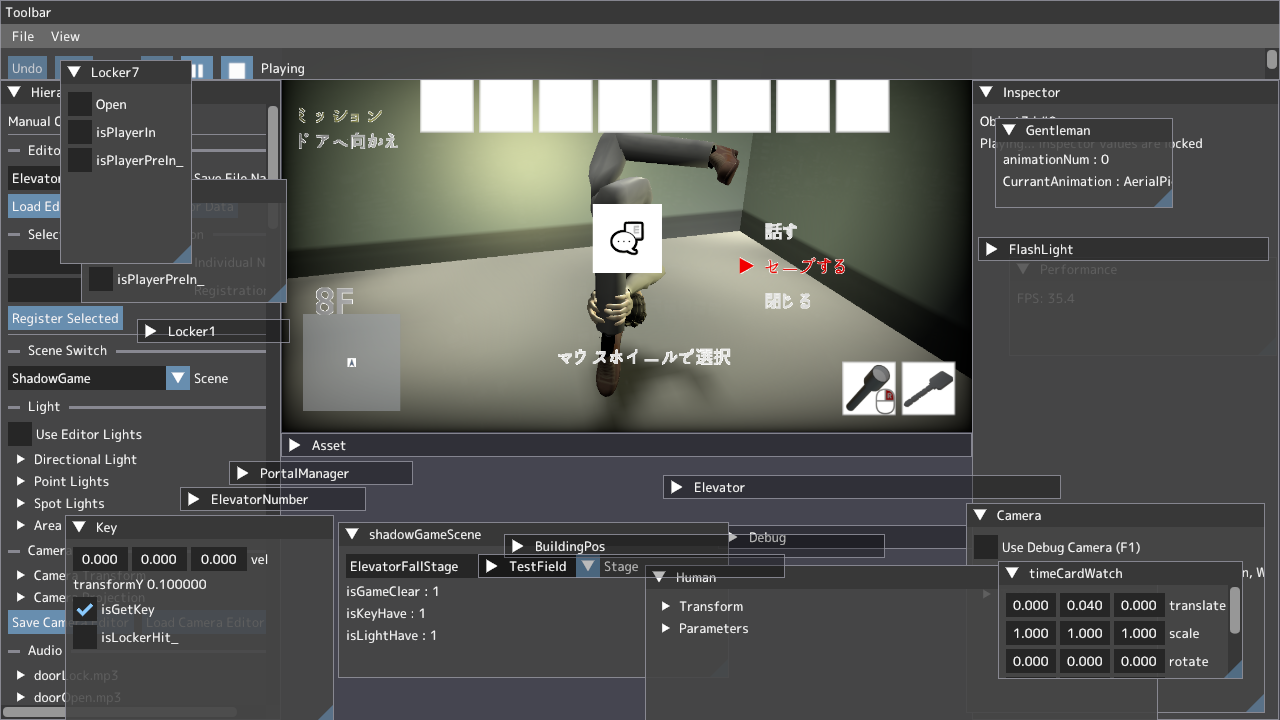
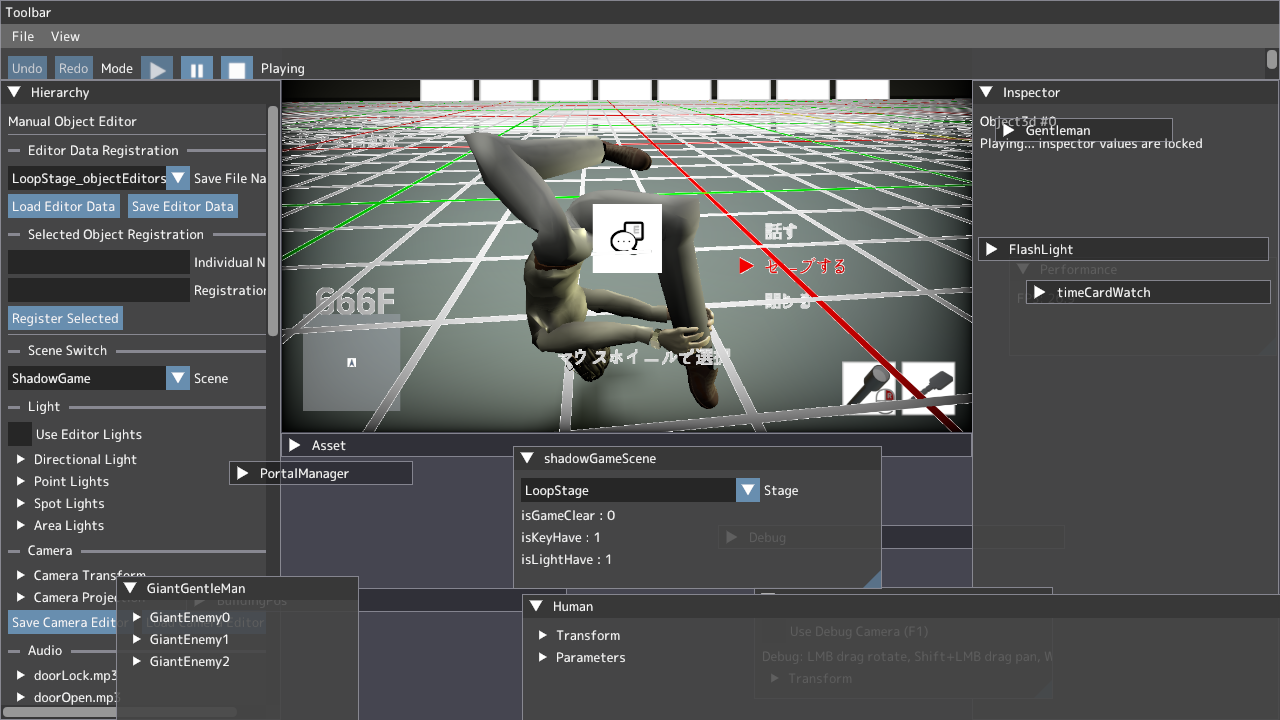
紳士の修正

diff --git a/project/application/Scene/TD3_4month/ShadowGameScene.cpp b/project/application/Scene/TD3_4month/ShadowGameScene.cpp
@@ -242,7 +242,11 @@ void ShadowGameScene::Draw()
     SpriteCommon::GetInstance()->DrawCommon();
     //ステージマネージャーでスプライトを描画
     stageManager_->DrawSprite();
+
+    auto progressSaveData = GameSave::GetInstance().GetProgressSaveData();
+
     elevator_->DrawSprite();
+
     damageOverlay_->Draw();
     if (!currentEvent_->IsRunning()) {
         //UI管理を描画する
@@ -333,8 +337,6 @@ void ShadowGameScene::ChangeStage(const std::string& stageName) {
 
 void ShadowGameScene::CheckCollision() {
 
-
-
     if (!collisionManager_) {
         return;
     }
@@ -343,24 +345,29 @@ void ShadowGameScene::CheckCollision() {
 
     collisionManager_->AddCollider(player_.get());
 
-    for (auto& [name, wall] : elevatorRoomManager_->GetColliders()) {
-        collisionManager_->AddCollider(wall.get());
-    }
 
-    for (auto& [name, system] : elevator_->GetAutoLockSys()) {
-        collisionManager_->AddCollider(system.get());
-    }
-    for (auto& [name, collider] : elevator_->GetColliders()) {
-        if (name == "ElevatorFloor" && elevator_->IsFall()) {
-            continue;
+    if (!isEndStage()) {
+
+        for (auto& [name, wall] : elevatorRoomManager_->GetColliders()) {
+            collisionManager_->AddCollider(wall.get());
         }
-        collisionManager_->AddCollider(collider.get());
-    }
 
+        //最終ステージの時はセットしない
+        for (auto& [name, system] : elevator_->GetAutoLockSys()) {
+            collisionManager_->AddCollider(system.get());
+        }
+        for (auto& [name, collider] : elevator_->GetColliders()) {
+            if (name == "ElevatorFloor" && elevator_->IsFall()) {
+                continue;
+            }
+            collisionManager_->AddCollider(collider.get());
+        }
+
+    }
 
     collisionManager_->AddCollider(gentleManManager_->GetGentleman());
-
     stageManager_->SetCollisionManager(collisionManager_.get());
+
     stageManager_->CheckCollision();
 }
 
@@ -377,17 +384,11 @@ void ShadowGameScene::UpdateCamera()
 
 void ShadowGameScene::UpdateSceneTransition() {
 
-    //    //デバックモードではシーン遷移しない
-    //    bool flag = true;
-    //#ifdef USE_IMGUI
-    //    flag = false;
-    //#endif
-
     auto& progressSaveData = GameSave::GetInstance().GetProgressSaveData();
 
-    if (GiantEnemyManager::GetIsAllPortal()/* && flag*/) {
+    if (GiantEnemyManager::GetIsAllPortal()) {
         //巨人が前夫ポータルになったら
-        if (progressSaveData.currentStageName == "LoopStage" && !isTransitionOut_) {
+        if (isEndStage() && !isTransitionOut_) {
             transition_->Initialize(true);
             isTransitionIn_ = false;
             isTransitionOut_ = true;
@@ -457,8 +458,7 @@ void ShadowGameScene::UpdateGameObject() {
 
     UpdateElevator();
 
-    // エレベータールーム管理
-    elevatorRoomManager_->Update();
+
     //紳士管理
     gentleManManager_->Update();
     //建物 回数によって位置を変更する
@@ -502,7 +502,13 @@ void ShadowGameScene::UpdateLight() {
 void ShadowGameScene::UpdateElevator()
 {
 
+
+    if (isEndStage()) {
+        return;
+        //最終ステージだったらカエル
+    }
     auto& progressSaveData = GameSave::GetInstance().GetProgressSaveData();
+
     if (progressSaveData.currentStageName == "ElevatorFallStage" && !Key::IsGetKey()) {
         //落下アニメーションを設定する
         elevator_->SetFallAnimation();
@@ -510,6 +516,9 @@ void ShadowGameScene::UpdateElevator()
 
     // エレベーター
     elevator_->Update();
+
+    // エレベータールーム管理
+    elevatorRoomManager_->Update();
 }
 void ShadowGameScene::UpdateStagetransition()
 {
@@ -586,6 +595,19 @@ bool ShadowGameScene::isPlayerWarp()
 
     return false;
 }
+bool ShadowGameScene::isEndStage()
+{
+    auto progressSaveData = GameSave::GetInstance().GetProgressSaveData();
+
+
+    // エレベーター
+    if (progressSaveData.currentStageName == "LoopStage") {
+        return true;
+    }
+
+    return false;
+
+}
 // private描画処理
 void ShadowGameScene::DrawSceneTransition() {
     if (isTransitionIn_ || isTransitionOut_) {
@@ -618,12 +640,15 @@ void ShadowGameScene::DrawModel() {
 }
 void ShadowGameScene::DrawGameObject(bool isShadow, bool drawPortal, bool isDrawParticle, bool drawPlayer, bool drawPlayerHead) {
 
+    auto progressSaveData = GameSave::GetInstance().GetProgressSaveData();
+
     // エレベーター
-    elevator_->Draw();
+    if (!isEndStage()) {
+        elevator_->Draw();
+    }
+
     gentleManManager_->Draw();
 
-
-    auto progressSaveData = GameSave::GetInstance().GetProgressSaveData();
     if (progressSaveData.currentStageName != "GentleManStage") {
         timeCardWatches_[1]->Draw();
     }
@@ -640,8 +665,12 @@ void ShadowGameScene::DrawGameObject(bool isShadow, bool drawPortal, bool isDraw
     }
 
     Object3dCommon::GetInstance()->DrawCommon();
-    // エレベータルーム
-    elevatorRoomManager_->Draw();
+
+    if (!isEndStage()) {
+        // エレベータルーム
+        elevatorRoomManager_->Draw();
+    }
+
     //建物
     buildings_->Draw();
 }
@@ -650,8 +679,14 @@ void ShadowGameScene::SetSceneCameraForDraw(Camera* camera) {
     skyBox_->SetCamera(camera);
     player_->SetCamera(camera);
 
-    elevatorRoomManager_->SetCamera(camera);
-    elevator_->SetCamera(camera);
+    auto progressSaveData = GameSave::GetInstance().GetProgressSaveData();
+
+    if (!isEndStage()) {
+        //最終ステージの時はセットしない
+        elevatorRoomManager_->SetCamera(camera);
+        elevator_->SetCamera(camera);
+    }
+
     gentleManManager_->SetCamera(camera);
     buildings_->SetCamera(camera);
 

diff --git a/project/application/GameObject/Gentleman/GentleManManager.cpp b/project/application/GameObject/Gentleman/GentleManManager.cpp
@@ -24,7 +24,6 @@ void GentleManManager::Initialize()
 void GentleManManager::Update()
 {
 
-
    auto saveData = GameSave::GetInstance().GetProgressSaveData();
 
     //最終ステージの時はいない
@@ -33,7 +32,7 @@ void GentleManManager::Update()
     }
 
     //チュートリアルステージの時
-    if (saveData.currentStageName == "TutorialStage") {
+    if (saveData.currentStageName == "TutorialStage"|| saveData.currentStageName == "LoopStage"|| saveData.currentStageName == "ElevatorFallStage") {
 
         if (GentlemanTalk::GetIsTalkEnd()) {
             gentleman_->SetAnimationName("Idle");
@@ -71,11 +70,6 @@ void GentleManManager::Update()
 
 
 
-    }
-
-    //落下の時
-    if (saveData.currentStageName == "ElevatorFallStage") {
-        gentleman_->SetAnimationName("AerialPigeon");
     }
 
     //落下の時

diff --git a/project/application/GameObject/Flashlight/Flashlight.cpp b/project/application/GameObject/Flashlight/Flashlight.cpp
@@ -72,7 +72,7 @@ void Flashlight::Update()
 
     if (isGetLight_) {
 
-        transform_.translate = { 0.0f,0.1f,0.0f };
+        transform_.translate = { 0.0f,0.15f,-0.05f };
         transform_.rotate = { 0.0f,Function::kPi * 0.5f,0.0f };
         transform_.scale = { 1.0f,1.0f,1.0f };
 

diff --git a/project/application/GameObject/Gentleman/GiantEnemy.cpp b/project/application/GameObject/Gentleman/GiantEnemy.cpp
@@ -255,7 +255,7 @@ void GiantEnemy::OnCollisionWithFloor(YoshidaMath::Collider* collider)
 bool GiantEnemy::OnCollisionRay(PlayerCamera* playerCamera)
 {
     //かなり遠くからでも打てるようにする
-    return playerCamera->OnCollisionRay(localAABB, collisionTransform_.translate, 0.0f, 2000.0f);
+    return playerCamera->OnCollisionRay(localAABB, collisionTransform_.translate, 0.0f, 500.0f);
 }
 
 void GiantEnemy::Animation()

diff --git a/project/application/GameObject/Portal/GentlemanPortalManager.cpp b/project/application/GameObject/Portal/GentlemanPortalManager.cpp
@@ -18,7 +18,7 @@ GentlemanPortalManager::GentlemanPortalManager(Vector3* pos) {
     firstWarpPosTransform_ = {
         .scale = {1.0f,  1.0f, 1.0f},
           .rotate = {0.0f, 0.0f, 0.0f},
-          .translate = {7.0f, -100.0f, 20.0f}
+          .translate = {0.0f, 10.0f, 0.0f}
     };
 
     portalParticle_ = std::make_unique<PortalParticle>();

diff --git a/project/application/Scene/TD3_4month/ShadowGameScene.h b/project/application/Scene/TD3_4month/ShadowGameScene.h
@@ -141,6 +141,7 @@ private:
     // プライベート描画処理
     // =======================================
 	bool isPlayerWarp();
+	bool isEndStage();
     //シーン遷移の描画処理
     void DrawSceneTransition();
     //ゲームオブジェクトの描画処理